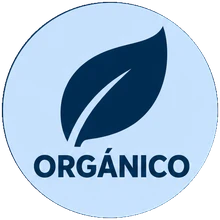
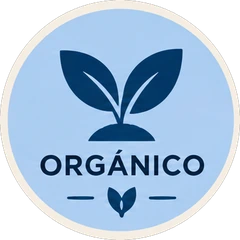
Sellos: los originales, recortados por circulo y un poco mas chicos en la ficha

diff --git a/index.html b/index.html
@@ -745,13 +745,13 @@ textarea.co-input{resize:vertical;min-height:60px;font-family:inherit}
 .product-detail-sellos .sello-d{display:block;padding:0;border:0;background:none;
   border-radius:50%;cursor:pointer;line-height:0;
   transition:transform .15s ease,box-shadow .15s ease}
-.product-detail-sellos .sello-d img{width:92px;height:92px;display:block;object-fit:contain}
+.product-detail-sellos .sello-d img{width:84px;height:84px;display:block;object-fit:contain}
 .product-detail-sellos .sello-d:hover{transform:translateY(-2px);
   box-shadow:0 4px 14px rgba(20,45,70,.18)}
 .product-detail-sellos .sello-d:focus-visible{outline:2px solid var(--azul);outline-offset:3px}
 @media(max-width:767px){
   .product-detail-sellos{gap:10px}
-  .product-detail-sellos .sello-d img{width:80px;height:80px}
+  .product-detail-sellos .sello-d img{width:74px;height:74px}
 }
 @media(prefers-reduced-motion:reduce){
   .product-detail-sellos .sello-d{transition:none}
@@ -1622,9 +1622,20 @@ input[type=search]{-webkit-appearance:none;appearance:none}
 .search-suggestion-item.sug-marca .sug-icon{opacity:1;font-size:11px}
 .search-suggestion-item.sug-marca b{font-weight:800}
 
-/* ── La barra del filtro puesto ── */
+/* ── La barra del filtro puesto ──
+   Queda pegada arriba: el header se va con el scroll y ésta ocupa su lugar, así el
+   botón de categorías está siempre a mano. Por eso se sacó el hamburguesa que estaba
+   al lado del buscador: eran dos iguales y le comía lugar al texto que escribís. */
 .filtro-activo{display:flex;align-items:center;gap:10px;margin:0 0 14px;padding:7px 8px;
-  border:1px solid var(--border);border-radius:12px;background:var(--card)}
+  border:1px solid var(--border);border-radius:12px;background:var(--card);
+  position:sticky;top:var(--pegado-top,0px);z-index:40;box-shadow:0 2px 10px rgba(20,45,70,.10)}
+@media(min-width:768px){
+  /* En escritorio no tiene sentido que cruce toda la pantalla: va centrada y del
+     ancho de una columna de lectura. */
+  .filtro-activo{max-width:620px;margin-left:auto;margin-right:auto}
+}
+/* El hamburguesa del header sobra en el celular: el de la barra hace lo mismo. */
+@media(max-width:767px){ .min-header-menu{display:none!important} }
 .filtro-activo .fa-volver,.filtro-activo .fa-cats{flex:0 0 auto;width:38px;height:38px;
   border-radius:10px;border:0;background:var(--muted);color:var(--azul-dark);cursor:pointer;
   display:flex;align-items:center;justify-content:center;padding:0;transition:background .15s}
@@ -3790,11 +3801,15 @@ function _olvidarCatalogo(){
    el nombre de lo que estás mirando. Es la misma para rubro, sello y marca —para el
    cliente son todas "categorías"— y ocupa un solo renglón. */
 function _barraFiltro(etiqueta, titulo, cuenta){
+  // Sin filtro también sale, diciendo "Todos los productos" y sin flechita: así el
+  // botón de categorías está siempre, que es el único que quedó en el celular.
   return '<div class="filtro-activo">' +
-    '<button type="button" class="fa-volver" onclick="verTodoElCatalogo()" ' +
-      'aria-label="Volver a todos los productos" title="Volver a todos los productos">' +
-      '<svg viewBox="0 0 24 24" fill="none" stroke="currentColor" stroke-width="2.4" ' +
-      'stroke-linecap="round" stroke-linejoin="round"><path d="M15 19l-7-7 7-7"/></svg></button>' +
+    (etiqueta
+      ? '<button type="button" class="fa-volver" onclick="verTodoElCatalogo()" ' +
+        'aria-label="Volver a todos los productos" title="Volver a todos los productos">' +
+        '<svg viewBox="0 0 24 24" fill="none" stroke="currentColor" stroke-width="2.4" ' +
+        'stroke-linecap="round" stroke-linejoin="round"><path d="M15 19l-7-7 7-7"/></svg></button>'
+      : '') +
     '<span class="fa-txt">' + (etiqueta ? '<i>' + etiqueta + '</i>' : '') +
       '<b>' + titulo + '</b></span>' +
     (cuenta != null ? '<span class="fa-n">' + cuenta + '</span>' : '') +
@@ -7356,13 +7371,7 @@ function renderCarruseles(){
     var _selloAct = SELLO_ACTIVO ? SELLOS_TIENDA.find(function(x){return x.id===SELLO_ACTIVO}) : null;
     activeArea.innerHTML=(_selloAct
       ? _barraFiltro('Sello', _selloAct.chip, null)
-      : `<div class="catalog-intro">
-      <div>
-        <h1>Todos los productos</h1>
-      </div>
-      <img class="catalog-intro-ic" src="may-icon-products-bag.png" alt="" aria-hidden="true" loading="eager" decoding="async">
-      <button class="catalog-filter-btn" onclick="toggleCatsDropdown()"><span aria-hidden="true">☰</span> Categorías</button>
-    </div>`) + `
+      : _barraFiltro('', 'Todos los productos', null)) + `
     <div class="catalog-progressive-sections"></div>
     <div class="catalog-load-sentinel" aria-hidden="true" style="height:1px"></div>`;
     activeArea.setAttribute('aria-busy','true');
@@ -8458,6 +8467,9 @@ window.compartirTienda = compartirTienda;
       });
       st.textContent = st.textContent.replace(/\/\*empuje\*\/[\s\S]*$/, '') +
         '/*empuje*/body{padding-top:' + h + 'px!important}' +
+        // Lo pegado (la barra de filtro) también tiene que arrancar debajo del cartel:
+        // el padding del body mueve el flujo pero no a un position:sticky.
+        ':root{--pegado-top:' + h + 'px}' +
         (mover.length ? [...new Set(mover)].join(',') + '{top:' + h + 'px!important}' : '');
     }
     _correr();
